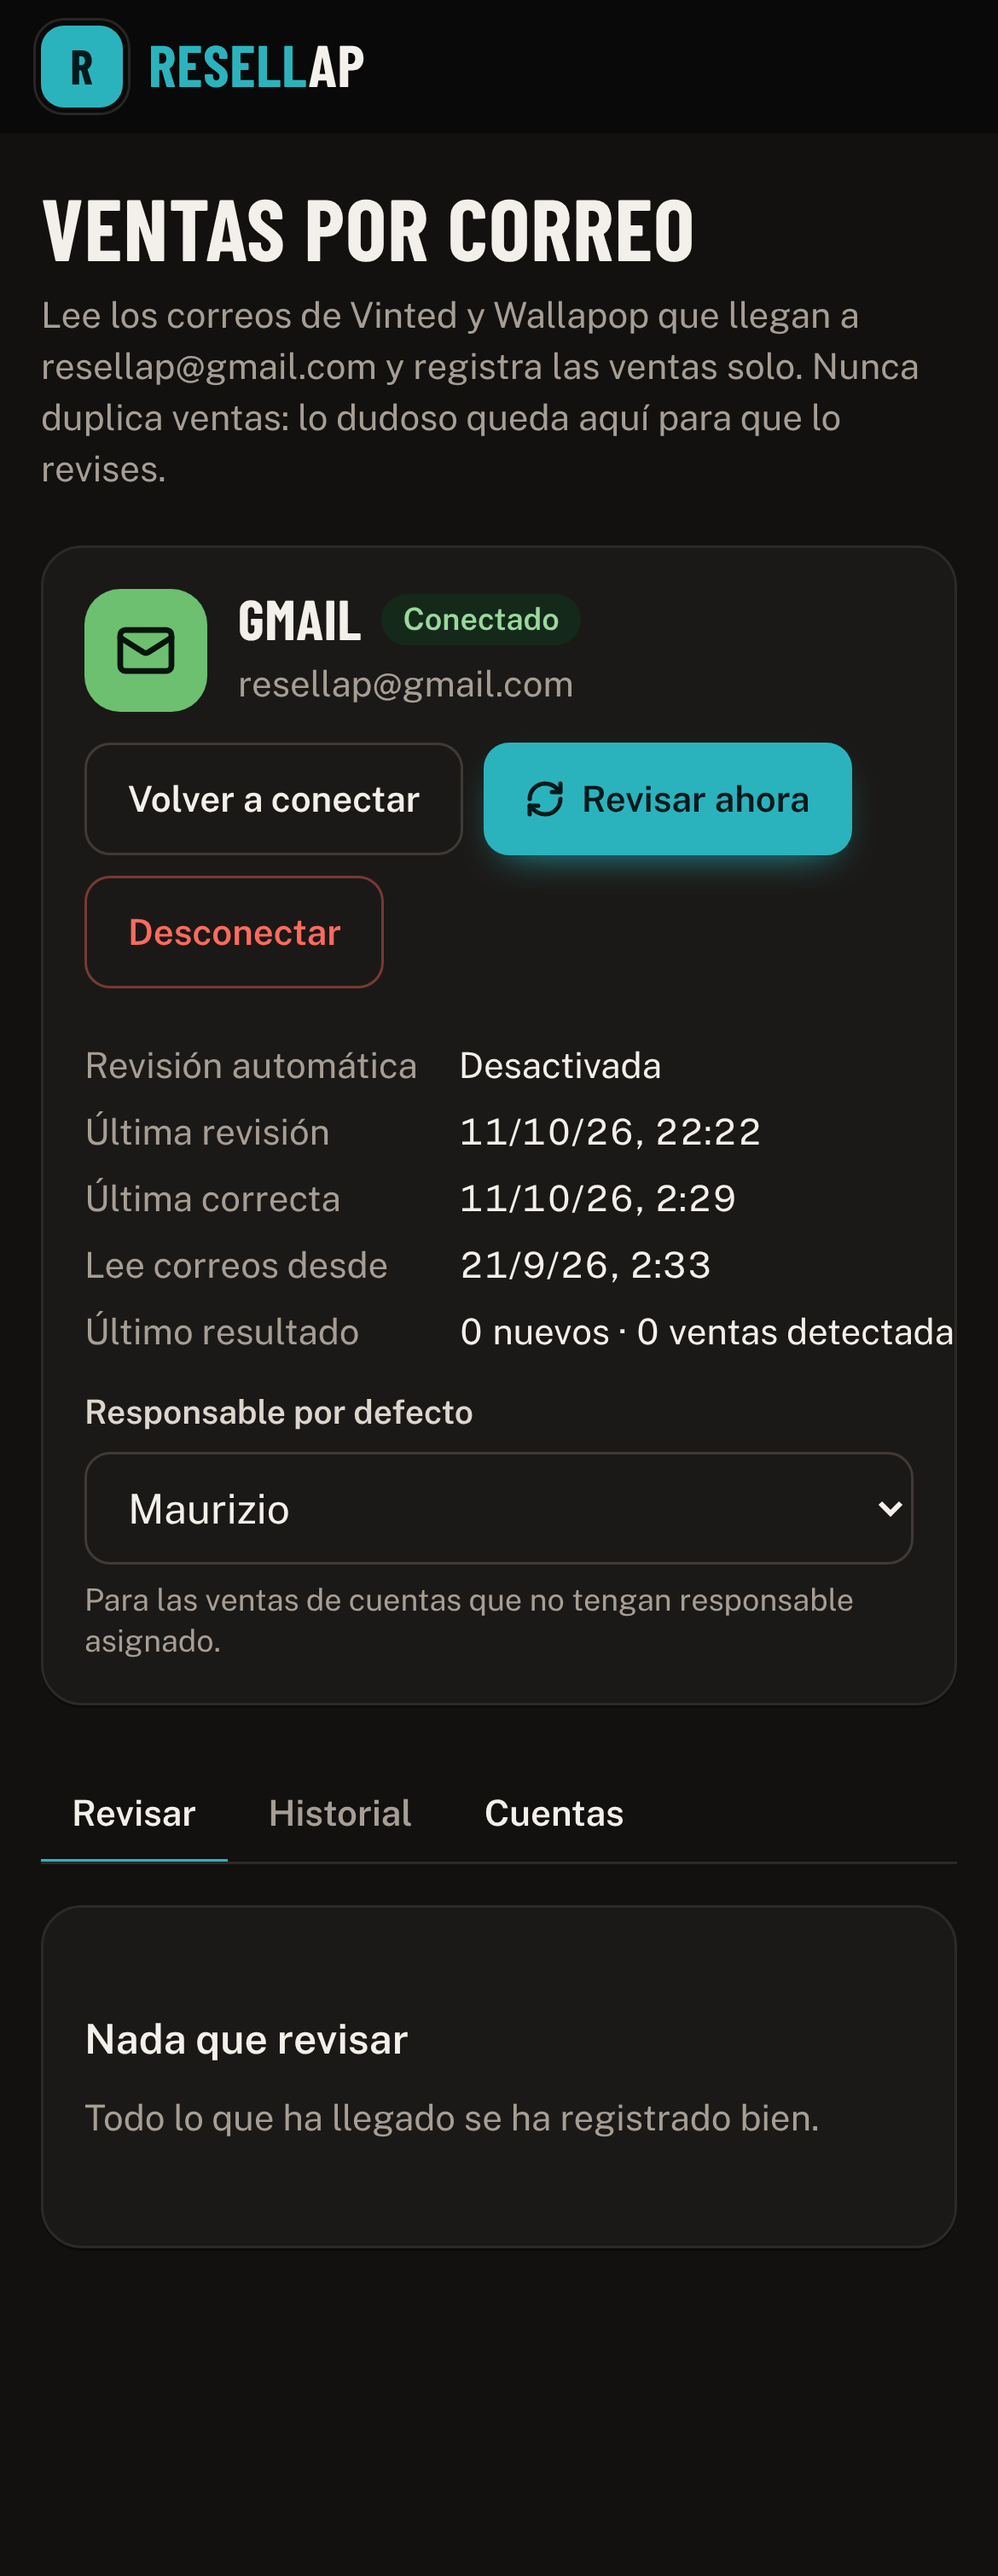
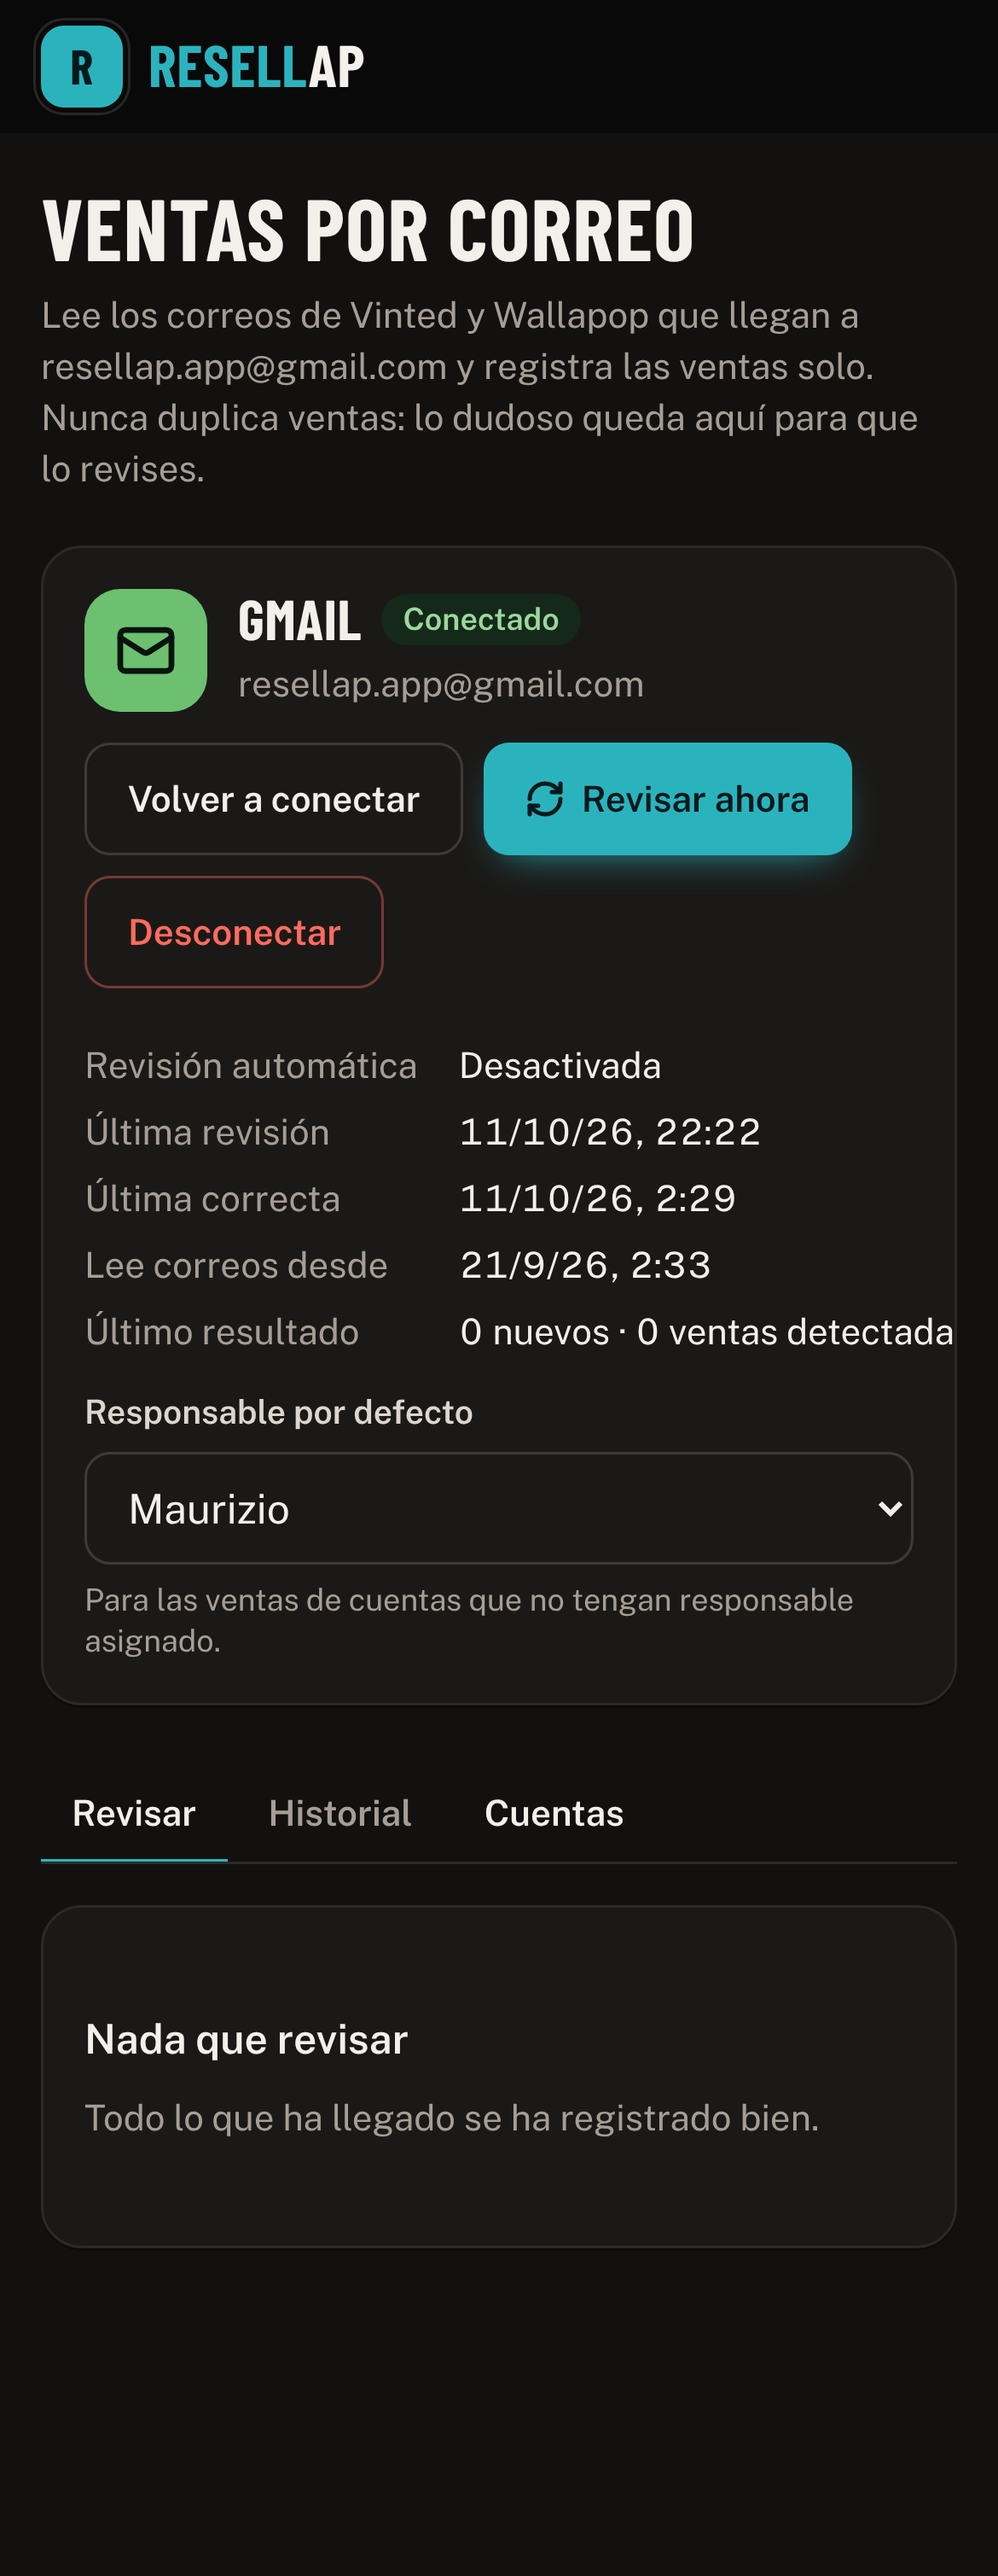
Correo de ventas de la marca nueva: resellap.app@gmail.com
Claude-Session: https://claude.ai/code/session_01JrGvqvvPTQ5D6CSthnMxaD

Changed region(s): [[0.0308, 0.1246, 0.9231, 0.1869], [0.3692, 0.2492, 0.5846, 0.2803], [0.6154, 0.2492, 0.6462, 0.2803]]

diff --git a/video/motion/index.html b/video/motion/index.html
@@ -181,12 +181,12 @@ html, body { width: 1920px; height: 1080px; overflow: hidden; background: #05070
     <!-- 4 · automatización -->
     <div id="big4" data-w="Y aquí viene *lo interesante*"></div>
     <div class="mail" id="mail1" style="top:330px">
-      <div class="hd"><div class="av">V</div><div><div class="from">Vinted</div><div class="to">para resellap@gmail.com · 20:12</div></div></div>
+      <div class="hd"><div class="av">V</div><div><div class="from">Vinted</div><div class="to">para resellap.app@gmail.com · 20:12</div></div></div>
       <div class="sub">Has vendido un artículo en Vinted</div>
       <div class="bd">Nike Air Force 1 '07 · <b>79,00 €</b><br />Comprador: alba.k</div>
     </div>
     <div class="mail" id="mail2" style="top:500px">
-      <div class="hd"><div class="av">V</div><div><div class="from">Vinted</div><div class="to">para resellap@gmail.com · 10:46</div></div></div>
+      <div class="hd"><div class="av">V</div><div><div class="from">Vinted</div><div class="to">para resellap.app@gmail.com · 10:46</div></div></div>
       <div class="sub">Tu etiqueta de envío</div>
       <div class="att" id="att"><div class="pdf">PDF</div>etiqueta-vinted.pdf</div>
     </div>

diff --git a/src/lib/email/gmail.ts b/src/lib/email/gmail.ts
@@ -9,8 +9,8 @@ import { cleanText, htmlToText } from "./parse";
  */
 
 export const GMAIL_SCOPE = "https://www.googleapis.com/auth/gmail.readonly";
-/** Cuenta de Gmail que recibe los correos de venta. Se cambia con GMAIL_CENTRAL_ACCOUNT (p. ej. resellap@gmail.com). */
-export const CENTRAL_ACCOUNT = (process.env.GMAIL_CENTRAL_ACCOUNT || "resellap@gmail.com").trim().toLowerCase();
+/** Cuenta de Gmail que recibe los correos de venta. Se cambia con GMAIL_CENTRAL_ACCOUNT (p. ej. resellap.app@gmail.com). */
+export const CENTRAL_ACCOUNT = (process.env.GMAIL_CENTRAL_ACCOUNT || "resellap.app@gmail.com").trim().toLowerCase();
 
 // Direcciones de Google. Solo se cambian en las pruebas automáticas (Gmail simulado).
 const AUTH_URL = () => testOnlyEnv("GOOGLE_OAUTH_AUTH_URL") || "https://accounts.google.com/o/oauth2/v2/auth";

diff --git a/docs/VENTAS-POR-CORREO.md b/docs/VENTAS-POR-CORREO.md
@@ -1,8 +1,8 @@
 # Ventas por correo (Vinted y Wallapop)
 
-> **Cambio de marca:** la cuenta de ventas pasa a ser **resellap@gmail.com**. Hasta que la crees y pongas `GMAIL_CENTRAL_ACCOUNT=resellap@gmail.com` en Vercel, la app sigue usando `maurinventario@gmail.com` y todo funciona igual.
+> **Cambio de marca:** la cuenta de ventas es ahora **resellap.app@gmail.com**. Si tenías conectada `maurinventario@gmail.com`, sigue leyendo sus correos hasta que pulses «Volver a conectar» y elijas la cuenta nueva. Antes, cambia en Vinted y Wallapop el correo de tu cuenta (o reenvía los correos de venta) para que lleguen a la cuenta nueva.
 
-Resellap lee los correos que llegan a **resellap@gmail.com** y registra las ventas solo. Esta guía explica qué hace y cómo dejarlo funcionando. No hace falta saber programar.
+Resellap lee los correos que llegan a **resellap.app@gmail.com** y registra las ventas solo. Esta guía explica qué hace y cómo dejarlo funcionando. No hace falta saber programar.
 
 ---
 
@@ -45,20 +45,20 @@ Necesitas unos 15 minutos. Hazlo desde un ordenador o iPad.
 
 ### Paso A · Google Cloud (crear el permiso para leer Gmail)
 
-Usa la cuenta **resellap@gmail.com** en todo este paso.
+Usa la cuenta **resellap.app@gmail.com** en todo este paso.
 
-1. Entra en **console.cloud.google.com** con resellap@gmail.com. Si te pide aceptar condiciones, acéptalas.
+1. Entra en **console.cloud.google.com** con resellap.app@gmail.com. Si te pide aceptar condiciones, acéptalas.
 2. Arriba, junto al logo, pulsa el selector de proyectos → **Proyecto nuevo** → nombre `Resellap` → **Crear**. Espera unos segundos y comprueba que arriba aparece «Resellap» seleccionado.
 3. Activa la API de Gmail: en el buscador de arriba escribe **Gmail API** → ábrela → botón **Habilitar**.
 4. Menú ☰ → **APIs y servicios** → **Pantalla de consentimiento de OAuth** (en algunas cuentas se llama **Google Auth Platform**). Pulsa **Comenzar**:
    - Nombre de la aplicación: `Resellap`
-   - Correo de asistencia: resellap@gmail.com
+   - Correo de asistencia: resellap.app@gmail.com
    - Público / Tipo de usuario: **Externo**
-   - Información de contacto: resellap@gmail.com
+   - Información de contacto: resellap.app@gmail.com
    - Acepta la política y pulsa **Crear**.
 5. Ve a **Acceso a los datos** (o «Permisos / Scopes») → **Agregar o quitar permisos** → en el filtro escribe `gmail.readonly` → marca **…/auth/gmail.readonly** («Ver tus mensajes de correo y tu configuración») → **Actualizar** → **Guardar**.
    - Solo lectura: la app nunca podrá enviar, borrar ni cambiar correos.
-6. Ve a **Público** (Audience) → en «Usuarios de prueba» añade **resellap@gmail.com** → Guardar.
+6. Ve a **Público** (Audience) → en «Usuarios de prueba» añade **resellap.app@gmail.com** → Guardar.
 7. En esa misma pantalla, pulsa **Publicar la aplicación** → **Confirmar**. Debe quedar en estado **«En producción»**.
    - Esto es importante: en estado «Prueba» Google caduca el permiso cada 7 días.
    - No hace falta que Google verifique la app: es solo para ti. Al conectar verás un aviso de «aplicación no verificada»; es normal (ver paso D).
@@ -92,7 +92,7 @@ Usa la cuenta **resellap@gmail.com** en todo este paso.
 
 1. Abre **resellap.vercel.app** con tu usuario de administrador.
 2. Menú → **Ventas por correo** → **Conectar Gmail**.
-3. Elige la cuenta **resellap@gmail.com** (si eliges otra, la app no la acepta).
+3. Elige la cuenta **resellap.app@gmail.com** (si eliges otra, la app no la acepta).
 4. Google avisa: «Google no ha verificado esta aplicación». Pulsa **Configuración avanzada** → **Ir a Resellap (no seguro)**. Es tu propia app; el aviso sale porque no se ha pasado la verificación pública de Google.
 5. Marca la casilla de **leer tus correos** y pulsa **Continuar**.
 6. Vuelves a la app con el mensaje «Gmail conectado».

diff --git a/README.md b/README.md
@@ -327,7 +327,7 @@ Estas son **todas** las variables que usa Resellap. No hay más.
 | `GEMINI_API_KEY` | Opcional | ✅ | 🔴 Secreta | Generador de descripciones (IA de Google Gemini, nivel gratuito). Se crea en aistudio.google.com → *Get API key*. |
 | `GOOGLE_CLIENT_ID` | Opcional | ✅ | 🔴 Secreta | Ventas por correo (Gmail). Ver [docs/VENTAS-POR-CORREO.md](docs/VENTAS-POR-CORREO.md). |
 | `GOOGLE_CLIENT_SECRET` | Opcional | ✅ | 🔴 Secreta | Ventas por correo (Gmail). Mismo sitio que la anterior. |
-| `GMAIL_CENTRAL_ACCOUNT` | Opcional | ✅ | 🟢 No secreta | Cuenta de Gmail que recibe las ventas. Por defecto `maurinventario@gmail.com`; con la marca nueva, `resellap@gmail.com`. |
+| `GMAIL_CENTRAL_ACCOUNT` | Opcional | ✅ | 🟢 No secreta | Cuenta de Gmail que recibe las ventas. Por defecto `resellap.app@gmail.com`. Solo hace falta si usas otra cuenta. |
 | `GEMINI_MODEL` | Opcional | Opcional | 🔴 Secreta | Cambiar el modelo de Gemini. Por defecto se prueban en orden `gemini-3.5-flash`, `gemini-3.8-flash`, `gemini-3.5-flash-lite` y `gemini-3.1-flash-lite` (si uno está saturado o sin cupo, pasa al siguiente). |
 
 > Sin `SUPABASE_SECRET_KEY` la app funciona, pero la pantalla Usuarios no puede crear usuarios. Lo avisa en pantalla.
